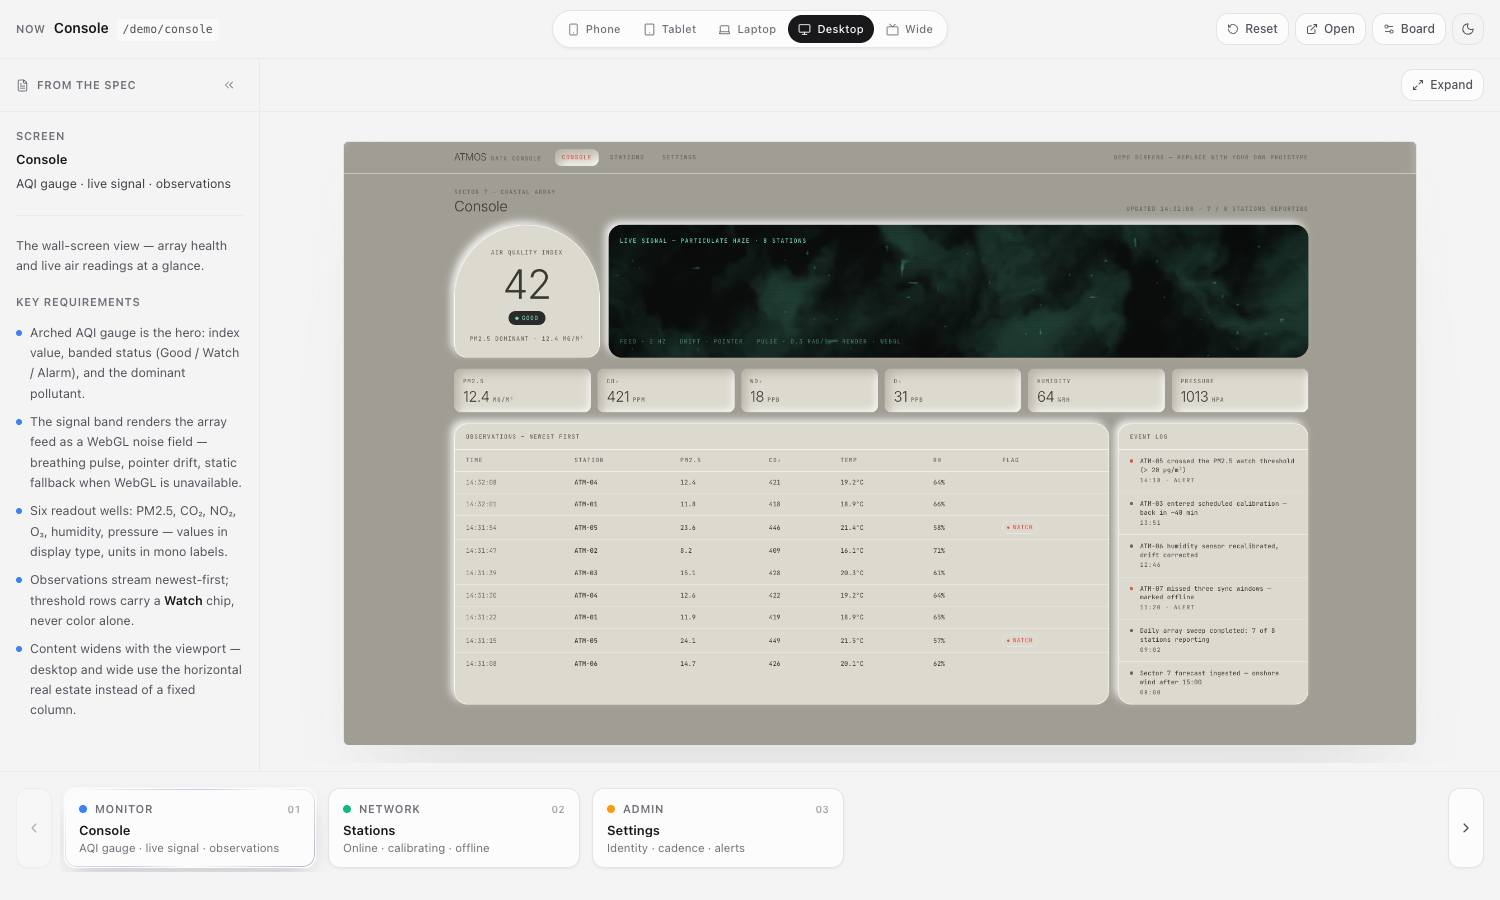
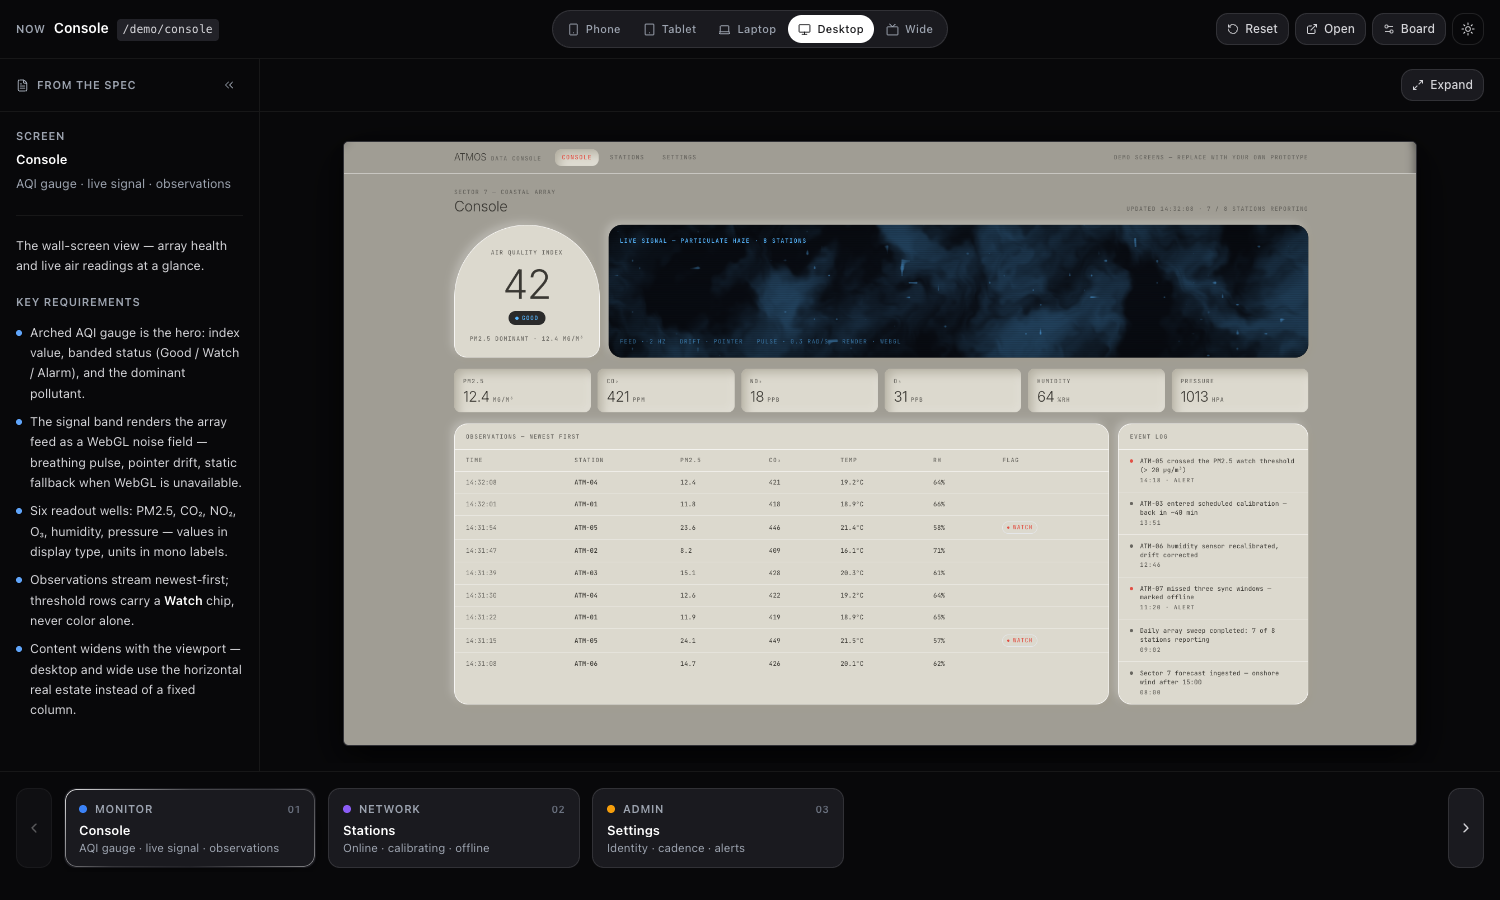
Atmos demo: electric-blue signal, white shadows cut to 28%
Swaps every green hue for electric blue (#57B7FF): the --atmos-signal
token (was mint), the WebGL haze phosphor + fallback gradient, and the
online/uptime fills. The filmstrip pip palette drops emerald so no
group lands on green. All whitish neumorphic highlights reduced by
72% (0.9 → 0.25, 0.8 → 0.22, 0.2 → 0.06) across cards, wells, the
dark panel, and the toggle knob.

diff --git a/src/app/demo/atmos.css b/src/app/demo/atmos.css
@@ -1,8 +1,8 @@
 /* ==========================================================================
    Atmospheric Data Console — demo-only theme, scoped under .atmos so it
    never leaks into the ViewFinder chrome. Putty neumorphism: warm grey
-   canvas, raised + inset surfaces, coral accent, mint phosphor on the
-   dark panels, JetBrains Mono for interface copy.
+   canvas, raised + inset surfaces, coral accent, electric-blue phosphor
+   on the dark panels, JetBrains Mono for interface copy.
    ========================================================================== */
 
 .atmos {
@@ -13,8 +13,8 @@
   --atmos-neutral:      #686660;
   --atmos-accent:       #E15045;
   --atmos-alarm:        #FF3333;
-  --atmos-mint:         #76D2B6;
-  --atmos-mint-dim:     rgba(118, 210, 182, 0.55);
+  --atmos-signal:       #57B7FF;
+  --atmos-signal-dim:   rgba(87, 183, 255, 0.55);
   --atmos-border:       rgba(255, 255, 255, 0.85);
 
   font-family: var(--atmos-font-mono), ui-monospace, SFMono-Regular, Menlo, monospace;
@@ -44,7 +44,7 @@
   border-radius: 24px;
   box-shadow:
     6px 6px 14px rgba(160, 155, 140, 0.6),
-    -6px -6px 14px rgba(255, 255, 255, 0.9),
+    -6px -6px 14px rgba(255, 255, 255, 0.25),
     1px 1px 2px rgba(180, 175, 160, 0.3);
 }
 
@@ -54,7 +54,7 @@
   border-radius: 12px;
   box-shadow:
     inset 8px 8px 16px rgba(160, 155, 140, 0.6),
-    inset -4px -4px 12px rgba(255, 255, 255, 0.9),
+    inset -4px -4px 12px rgba(255, 255, 255, 0.25),
     inset 2px 2px 4px rgba(180, 175, 160, 0.3);
 }
 
@@ -63,21 +63,21 @@
   background: var(--atmos-surface);
   border-radius: 12px;
   box-shadow:
-    inset 0 2px 4px rgba(255, 255, 255, 0.8),
+    inset 0 2px 4px rgba(255, 255, 255, 0.22),
     inset 0 -2px 4px rgba(0, 0, 0, 0.05),
     inset 2px 2px 6px rgba(160, 155, 140, 0.35);
 }
 
-/* Dark terminal panel — mint phosphor lives here, never on putty. */
+/* Dark terminal panel — blue phosphor lives here, never on putty. */
 .atmos-dark {
   background: var(--atmos-surface-dark);
-  color: var(--atmos-mint);
+  color: var(--atmos-signal);
   border-radius: 24px;
   box-shadow:
-    inset 1px 1px 2px rgba(255, 255, 255, 0.2),
+    inset 1px 1px 2px rgba(255, 255, 255, 0.06),
     inset -1px -1px 2px rgba(0, 0, 0, 0.8),
     6px 6px 14px rgba(160, 155, 140, 0.6),
-    -6px -6px 14px rgba(255, 255, 255, 0.9);
+    -6px -6px 14px rgba(255, 255, 255, 0.25);
 }
 
 /* Kit signature: the arched card (radius 140px top). */

diff --git a/src/app/demo/NoiseBand.tsx b/src/app/demo/NoiseBand.tsx
@@ -3,8 +3,8 @@
 import { useEffect, useRef } from "react";
 
 /**
- * The kit's "wide canvas band": a WebGL noise-haze field — green phosphor
- * on near-black — breathing on a slow pulse, drifting subtly toward the
+ * The kit's "wide canvas band": a WebGL noise-haze field — electric-blue
+ * phosphor on near-black — breathing on a slow pulse, drifting subtly toward the
  * pointer. Falls back to a static gradient when WebGL is unavailable,
  * and renders a single still frame under prefers-reduced-motion.
  */
@@ -71,8 +71,8 @@ export function NoiseBand({ className }: { className?: string }) {
         float glow = smoothstep(0.26, 0.78, n) * breath;
         // Sparse bright motes riding the haze.
         float motes = smoothstep(0.94, 1.0, noise(q * 7.0 + u_t * 0.05)) * breath;
-        vec3 base = vec3(0.045, 0.058, 0.052);
-        vec3 phosphor = vec3(0.29, 0.66, 0.54);
+        vec3 base = vec3(0.035, 0.048, 0.075);
+        vec3 phosphor = vec3(0.34, 0.72, 1.0);
         vec3 col = base + glow * phosphor * 0.72 + motes * phosphor * 0.9;
         // CRT scanline whisper + edge vignette.
         col *= 0.94 + 0.06 * sin(gl_FragCoord.y * 1.6);
@@ -163,7 +163,7 @@ export function NoiseBand({ className }: { className?: string }) {
         className="absolute inset-0 opacity-0"
         style={{
           background:
-            "radial-gradient(120% 90% at 30% 40%, rgba(118,210,182,0.22) 0%, transparent 55%), radial-gradient(90% 80% at 75% 70%, rgba(118,210,182,0.12) 0%, transparent 60%), #0B0F0E",
+            "radial-gradient(120% 90% at 30% 40%, rgba(87,183,255,0.22) 0%, transparent 55%), radial-gradient(90% 80% at 75% 70%, rgba(87,183,255,0.12) 0%, transparent 60%), #080C14",
         }}
       />
     </div>

diff --git a/src/app/demo/console/page.tsx b/src/app/demo/console/page.tsx
@@ -28,8 +28,8 @@ export default function DemoConsole() {
         <div className="atmos-card atmos-arch flex flex-col items-center px-6 pb-6 pt-10 text-center">
           <p className="atmos-label">Air quality index</p>
           <p className="atmos-display mt-3 text-[72px] leading-[72px]">42</p>
-          <span className="mt-3 inline-flex items-center gap-1.5 rounded-full bg-[#2A2A2A] px-3 py-1 text-[10.5px] font-medium uppercase tracking-[0.12em] text-[color:var(--atmos-mint)]">
-            <span aria-hidden="true" className="h-1.5 w-1.5 rounded-full bg-[color:var(--atmos-mint)]" />
+          <span className="mt-3 inline-flex items-center gap-1.5 rounded-full bg-[#2A2A2A] px-3 py-1 text-[10.5px] font-medium uppercase tracking-[0.12em] text-[color:var(--atmos-signal)]">
+            <span aria-hidden="true" className="h-1.5 w-1.5 rounded-full bg-[color:var(--atmos-signal)]" />
             Good
           </span>
           <p className="atmos-label mt-4">PM2.5 dominant · 12.4 µg/m³</p>
@@ -41,7 +41,7 @@ export default function DemoConsole() {
             <p className="text-[10.5px] font-medium uppercase tracking-[0.14em]">
               Live signal — particulate haze · 8 stations
             </p>
-            <div className="flex flex-wrap gap-x-6 gap-y-1 text-[10.5px] uppercase tracking-[0.12em] text-[color:var(--atmos-mint-dim)]">
+            <div className="flex flex-wrap gap-x-6 gap-y-1 text-[10.5px] uppercase tracking-[0.12em] text-[color:var(--atmos-signal-dim)]">
               <span>Feed · 2 Hz</span>
               <span>Drift · pointer</span>
               <span>Pulse · 0.3 rad/s</span>

diff --git a/src/app/demo/settings/page.tsx b/src/app/demo/settings/page.tsx
@@ -71,7 +71,7 @@ export default function DemoSettings() {
                 className={[
                   "rounded-full px-3.5 py-1.5 text-[11px] font-medium uppercase tracking-[0.08em] transition-colors duration-150",
                   active
-                    ? "bg-[#2A2A2A] text-[color:var(--atmos-mint)]"
+                    ? "bg-[#2A2A2A] text-[color:var(--atmos-signal)]"
                     : "text-[color:var(--atmos-neutral)] hover:text-[color:var(--atmos-ink)]",
                 ].join(" ")}
               >
@@ -159,7 +159,7 @@ function Toggle({
       >
         <span
           className={[
-            "absolute top-0.5 h-5 w-5 rounded-full shadow-[2px_2px_4px_rgba(160,155,140,0.6),-2px_-2px_4px_rgba(255,255,255,0.9)] transition-[left,background-color] duration-150",
+            "absolute top-0.5 h-5 w-5 rounded-full shadow-[2px_2px_4px_rgba(160,155,140,0.6),-2px_-2px_4px_rgba(255,255,255,0.25)] transition-[left,background-color] duration-150",
             checked
               ? "left-[22px] bg-[color:var(--atmos-accent)]"
               : "left-0.5 bg-[color:var(--atmos-surface)]",

diff --git a/src/app/demo/stations/page.tsx b/src/app/demo/stations/page.tsx
@@ -73,7 +73,7 @@ function StationCard({ station }: { station: Station }) {
                 ? "bg-[color:var(--atmos-alarm)]/70"
                 : station.status === "Calibrating"
                 ? "bg-[color:var(--atmos-neutral)]/70"
-                : "bg-[color:var(--atmos-mint)]",
+                : "bg-[color:var(--atmos-signal)]",
             ].join(" ")}
             style={{ width: `${station.uptime}%` }}
           />
@@ -87,7 +87,7 @@ function StationCard({ station }: { station: Station }) {
 function StatusPip({ status }: { status: StationStatus }) {
   const cls =
     status === "Online"
-      ? "bg-[color:var(--atmos-mint)]"
+      ? "bg-[color:var(--atmos-signal)]"
       : status === "Calibrating"
       ? "bg-[color:var(--atmos-neutral)]"
       : "bg-[color:var(--atmos-alarm)]";

diff --git a/src/lib/board.ts b/src/lib/board.ts
@@ -138,11 +138,11 @@ export function boardToJson(board: Board): string {
 
 const PIP_CLASSES = [
   "bg-blue-500",
-  "bg-emerald-500",
-  "bg-amber-500",
   "bg-violet-500",
+  "bg-amber-500",
   "bg-pink-500",
   "bg-cyan-500",
+  "bg-indigo-500",
 ];
 
 export function groupPipClass(board: Board, group: string | undefined): string {